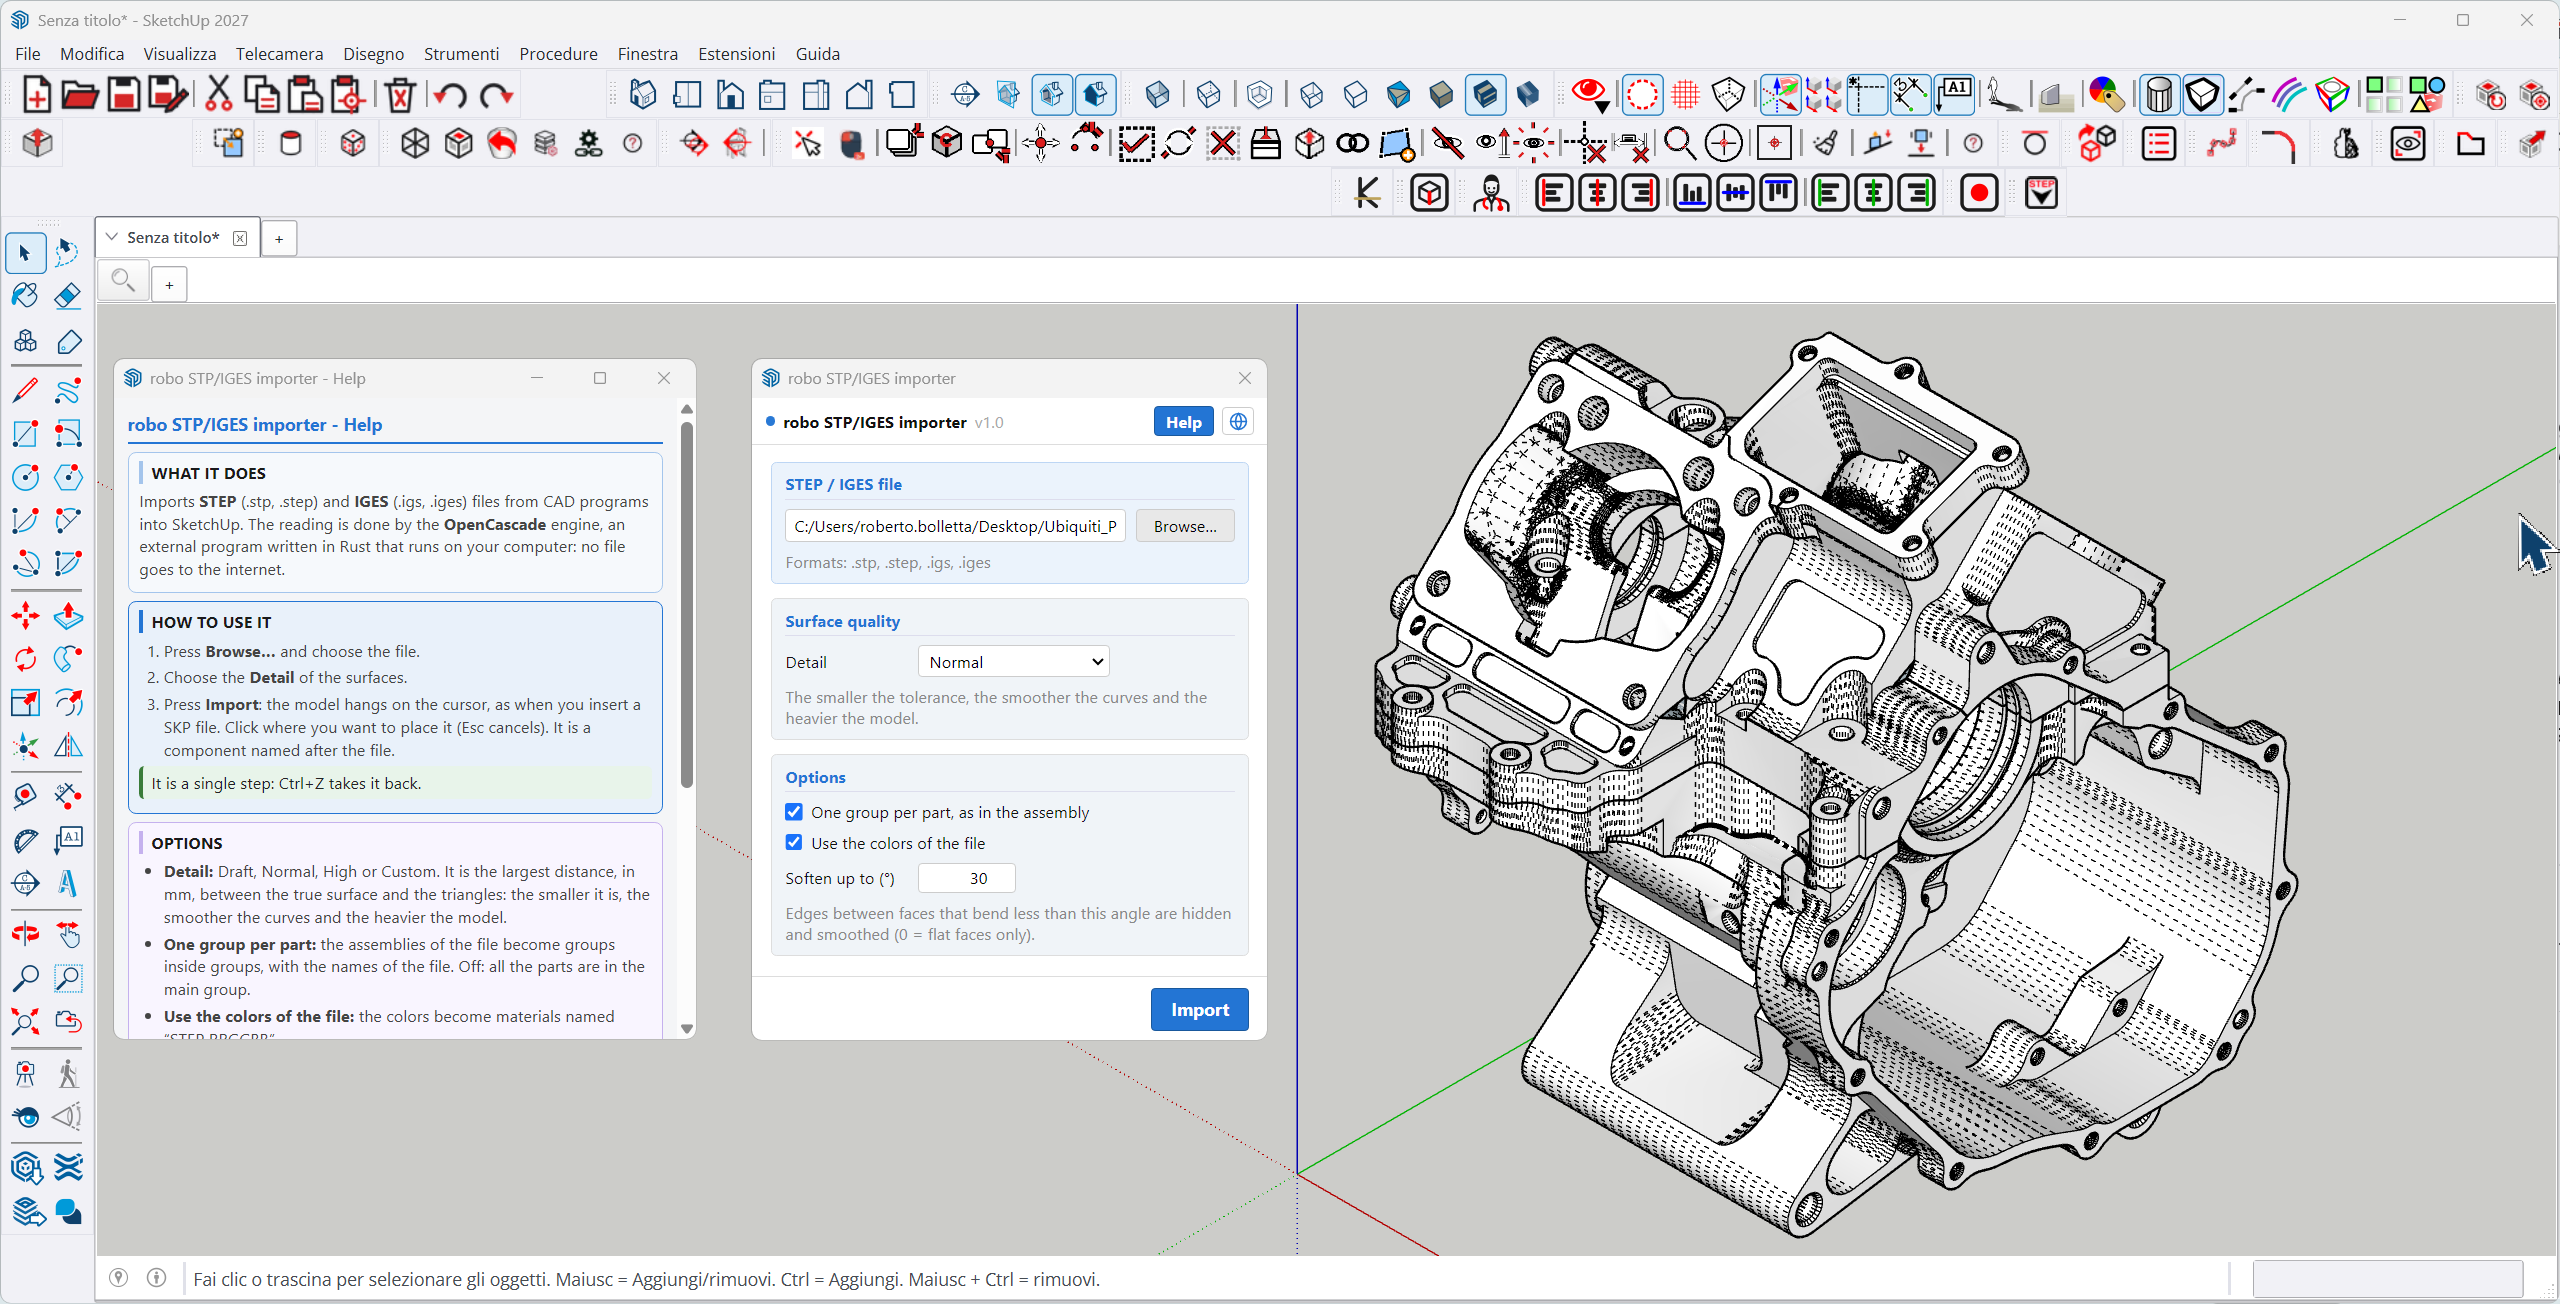
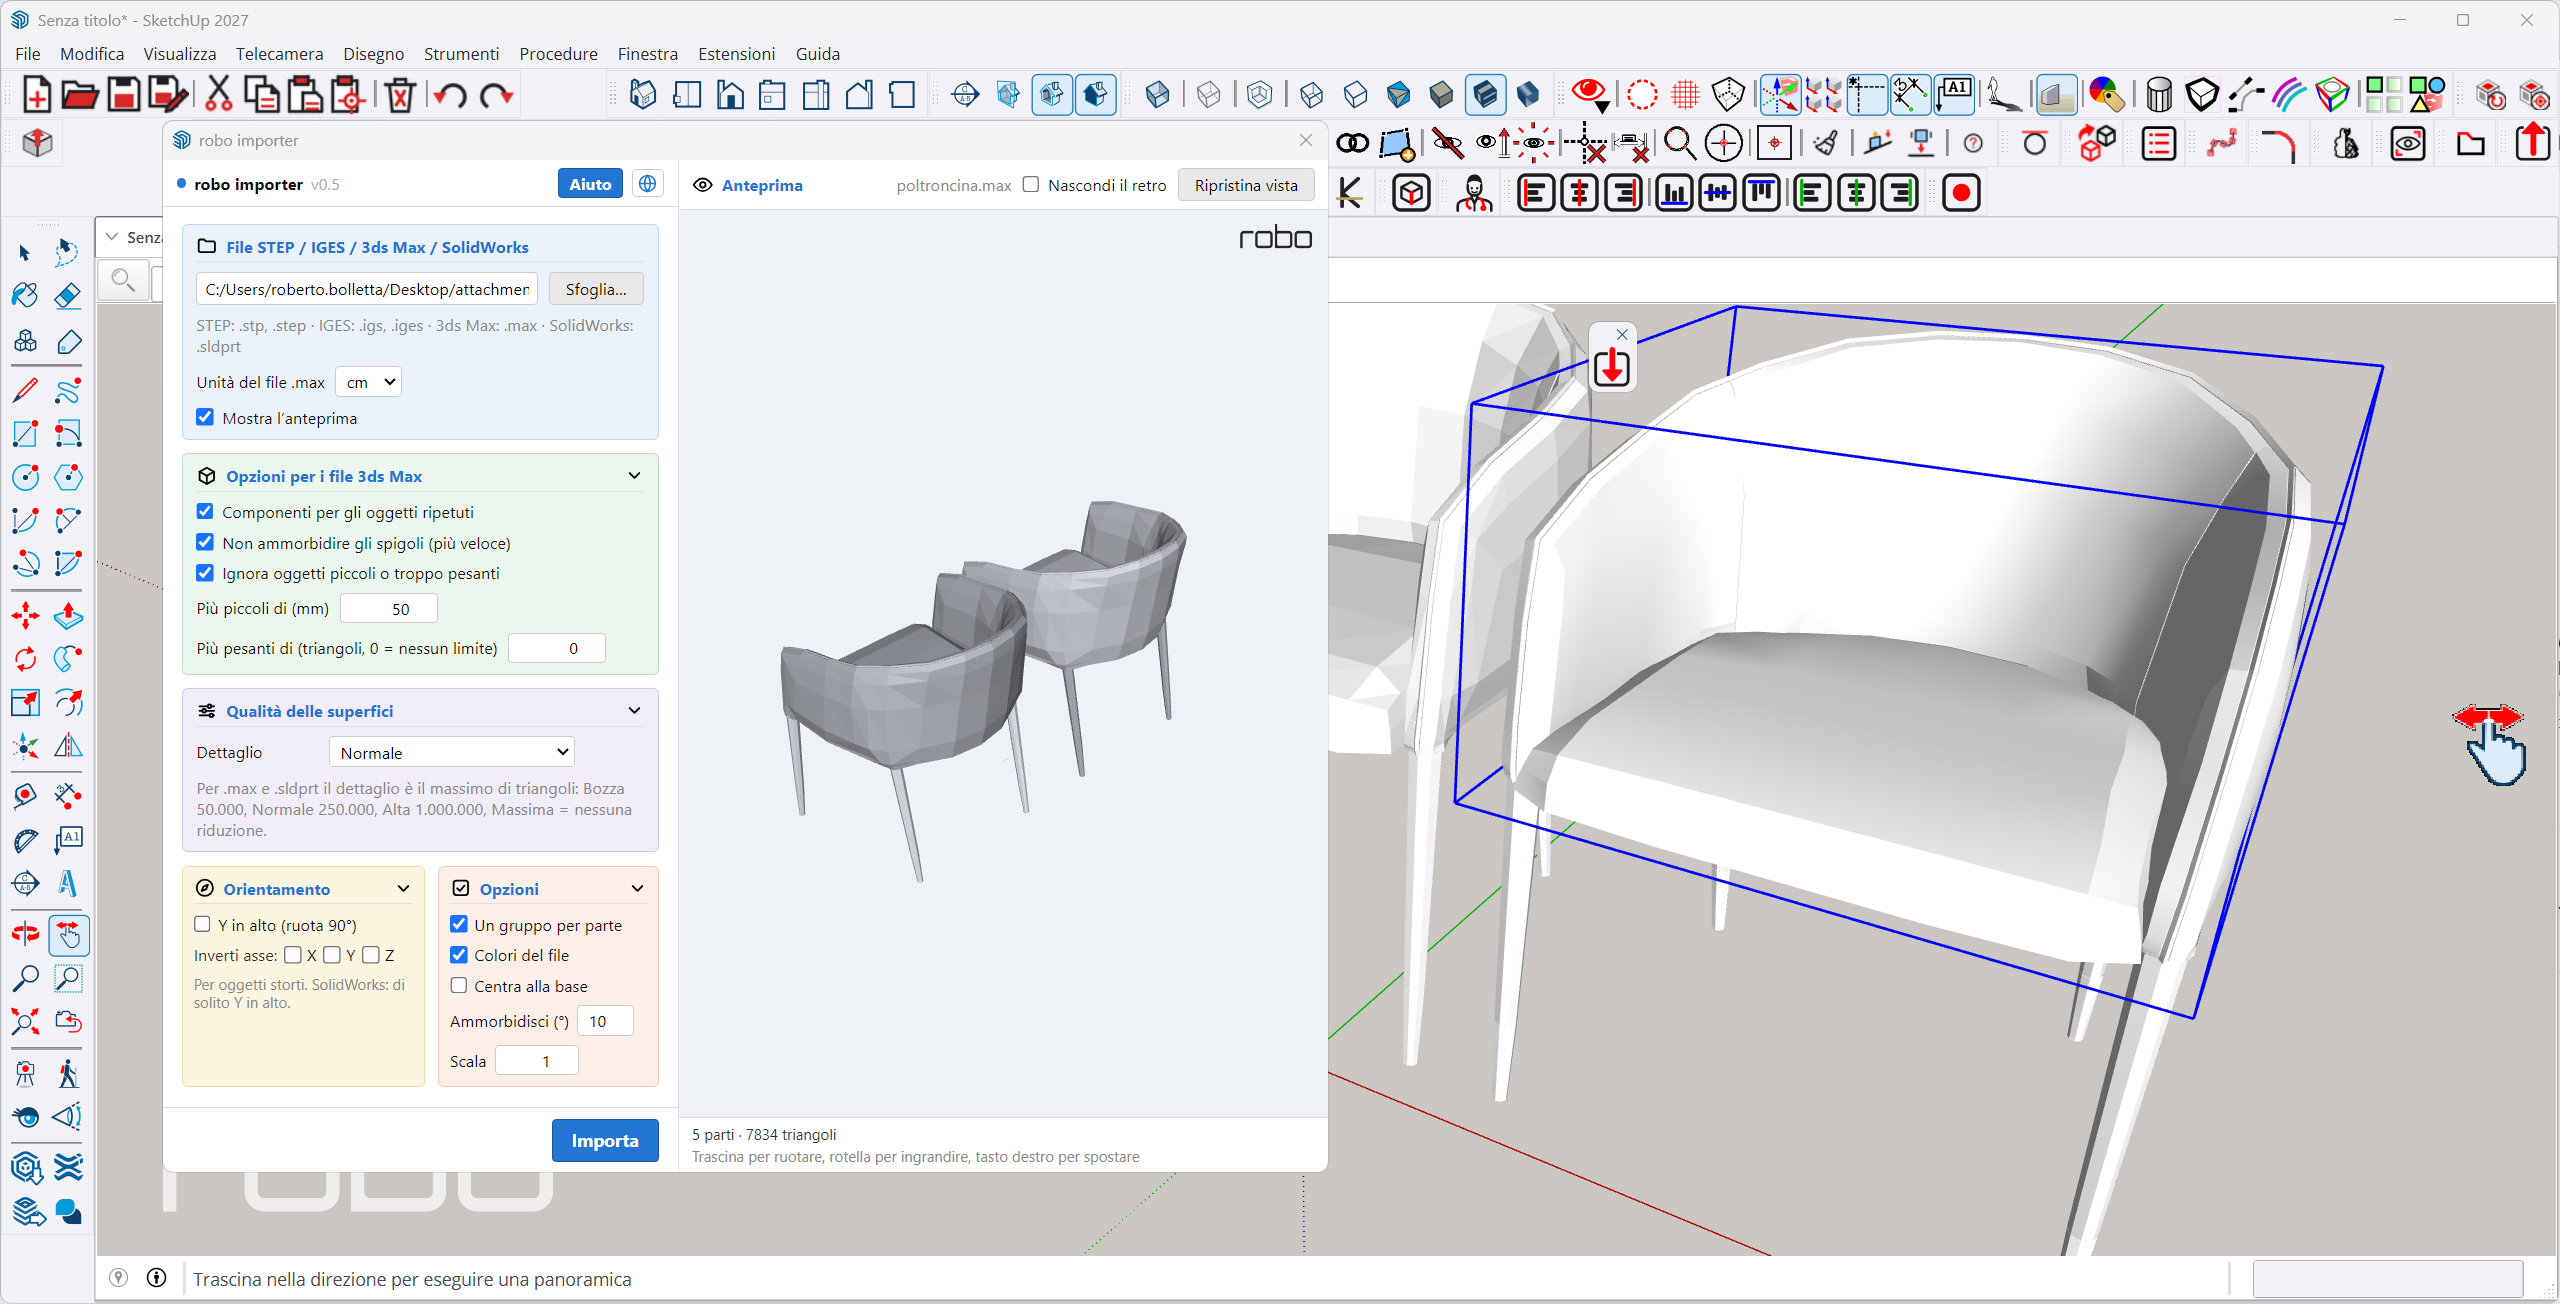
Update website - 2026-10-18

diff --git a/assets/js/i18n-plugins.js b/assets/js/i18n-plugins.js
@@ -189,7 +189,9 @@ I18N_PLUGINS.en.demolition = {
   solves: [
     { p: 'Imported meshes have hundreds of thousands of triangles and slow the model down.', s: 'A copy with the triangle percentage you choose, with nearly the same shape.' }
   ],
-  specs: [['Menu', 'Robo Tool › robo demolition (one entry)'], ['Toolbar', '1 button'], ['Requires', 'Nothing to install (engine included)'], ['Languages', 'Italiano, English, Deutsch, Français, Español']]
+  specs: [['Menu', 'Robo Tool › robo demolition (one entry)'], ['Toolbar', '1 button'], ['Requires', 'Nothing to install (engine included)'], ['Languages', 'Italiano, English, Deutsch, Français, Español']],
+installNote: 'robo demolition is not available for download yet: it will be published as soon as it is ready.',
+unavailableNote: 'robo demolition is not available for download yet: it will be published as soon as it is ready.'
 };
 I18N_PLUGINS.de.demolition = {
   tagline: 'Reduziert die Dreiecke eines schweren Mesh, ohne die Form zu verändern.',
@@ -204,7 +206,9 @@ I18N_PLUGINS.de.demolition = {
   solves: [
     { p: 'Importierte Meshes haben Hunderttausende Dreiecke und verlangsamen das Modell.', s: 'Eine Kopie mit dem gewählten Dreiecksanteil, mit fast identischer Form.' }
   ],
-  specs: [['Menü', 'Robo Tool › robo demolition (ein Eintrag)'], ['Symbolleiste', '1 Schaltfläche'], ['Erfordert', 'Keine Installation (Engine enthalten)'], ['Sprachen', 'Italiano, English, Deutsch, Français, Español']]
+  specs: [['Menü', 'Robo Tool › robo demolition (ein Eintrag)'], ['Symbolleiste', '1 Schaltfläche'], ['Erfordert', 'Keine Installation (Engine enthalten)'], ['Sprachen', 'Italiano, English, Deutsch, Français, Español']],
+installNote: 'robo demolition steht noch nicht zum Download bereit: Es wird veröffentlicht, sobald es fertig ist.',
+unavailableNote: 'robo demolition steht noch nicht zum Download bereit: Es wird veröffentlicht, sobald es fertig ist.'
 };
 I18N_PLUGINS.fr.demolition = {
   tagline: 'Réduit les triangles d\'un maillage lourd, en gardant la forme.',
@@ -219,7 +223,9 @@ I18N_PLUGINS.fr.demolition = {
   solves: [
     { p: 'Les maillages importés ont des centaines de milliers de triangles et ralentissent le modèle.', s: 'Une copie avec le pourcentage de triangles choisi, avec une forme presque identique.' }
   ],
-  specs: [['Menu', 'Robo Tool › robo demolition (une seule entrée)'], ['Barre d\'outils', '1 bouton'], ['Nécessite', 'Aucune installation (moteur inclus)'], ['Langues', 'Italiano, English, Deutsch, Français, Español']]
+  specs: [['Menu', 'Robo Tool › robo demolition (une seule entrée)'], ['Barre d\'outils', '1 bouton'], ['Nécessite', 'Aucune installation (moteur inclus)'], ['Langues', 'Italiano, English, Deutsch, Français, Español']],
+installNote: 'robo demolition n’est pas encore disponible au téléchargement : il sera publié dès qu’il sera prêt.',
+unavailableNote: 'robo demolition n’est pas encore disponible au téléchargement : il sera publié dès qu’il sera prêt.'
 };
 I18N_PLUGINS.es.demolition = {
   tagline: 'Reduce los triángulos de una malla pesada, manteniendo la forma.',
@@ -234,7 +240,9 @@ I18N_PLUGINS.es.demolition = {
   solves: [
     { p: 'Las mallas importadas tienen cientos de miles de triángulos y ralentizan el modelo.', s: 'Una copia con el porcentaje de triángulos que elijas, con la forma casi idéntica.' }
   ],
-  specs: [['Menú', 'Robo Tool › robo demolition (una sola entrada)'], ['Barra de herramientas', '1 botón'], ['Requiere', 'Ninguna instalación (motor incluido)'], ['Idiomas', 'Italiano, English, Deutsch, Français, Español']]
+  specs: [['Menú', 'Robo Tool › robo demolition (una sola entrada)'], ['Barra de herramientas', '1 botón'], ['Requiere', 'Ninguna instalación (motor incluido)'], ['Idiomas', 'Italiano, English, Deutsch, Français, Español']],
+installNote: 'robo demolition todavía no está disponible para descargar: se publicará en cuanto esté listo.',
+unavailableNote: 'robo demolition todavía no está disponible para descargar: se publicará en cuanto esté listo.'
 };
 
 /* ============================================================= EXPORT OBJECT */

diff --git a/assets/js/data.js b/assets/js/data.js
@@ -95,6 +95,7 @@ var PLUGINS = [
   /* --------------------------------------------------------------- DEMOLITION */
   {
     id: 'demolition', name: 'robo demolition', version: '1.2', category: 'Modellazione', hue: 15,
+    noDownload: true, installer: true,
     video: 'Zgdt30Fkshw',
     images: ['assets/img/screenshots/demolition-1.png', 'assets/img/screenshots/demolition-2.png', 'assets/img/screenshots/demolition-3.png'],
     tagline: 'Riduce i triangoli di una mesh pesante, mantenendo la forma.',
@@ -126,7 +127,9 @@ var PLUGINS = [
     solves: [
       { p: 'Le mesh importate hanno centinaia di migliaia di triangoli e rallentano il modello.', s: 'Una copia con la percentuale di triangoli che scegli, con la forma quasi identica.' }
     ],
-    specs: [['Menu', 'Robo Tool › robo demolition (una sola voce)'], ['Barra strumenti', '1 pulsante'], ['Richiede', 'Nessuna installazione (motore incluso)'], ['Lingue', 'Italiano, English, Deutsch, Français, Español']]
+    specs: [['Menu', 'Robo Tool › robo demolition (una sola voce)'], ['Barra strumenti', '1 pulsante'], ['Richiede', 'Nessuna installazione (motore incluso)'], ['Lingue', 'Italiano, English, Deutsch, Français, Español']],
+    installNote: 'robo demolition non è ancora disponibile per il download: sarà pubblicato appena pronto.',
+    unavailableNote: 'robo demolition non è ancora disponibile per il download: sarà pubblicato appena pronto.'
   },
 
   /* --------------------------------------------------------------- EXPORT OBJECT */
@@ -790,8 +793,8 @@ specs: [['Menu', 'Robo Tool › robo doctor'], ['Barra strumenti', '1 pulsante']
   },
   /* --------------------------------------------------------------- IMPORTER */
   {
-    id: 'importer', name: 'robo importer', version: '0.3', category: 'Produttività', hue: 205,
-    images: ['assets/img/screenshots/importer-1.png', 'assets/img/screenshots/importer-2.png', 'assets/img/screenshots/importer-3.png'],
+    id: 'importer', name: 'robo importer', version: '0.5', category: 'Produttività', hue: 205,
+    images: ['assets/img/screenshots/importer-1.png', 'assets/img/screenshots/importer-2.png', 'assets/img/screenshots/importer-3.png', 'assets/img/screenshots/importer-4.png'],
     noDownload: true, installer: true,
 tagline: 'Importa in SketchUp i file STEP, IGES, 3ds Max e SolidWorks, con anteprima, e li posizioni dove vuoi.',
 simple: 'Scegli un file STEP, IGES, 3ds Max o SolidWorks, controlla l’anteprima, imposta dettaglio e orientamento e premi Importa: il modello si attacca al cursore, come quando inserisci un file SKP.',
